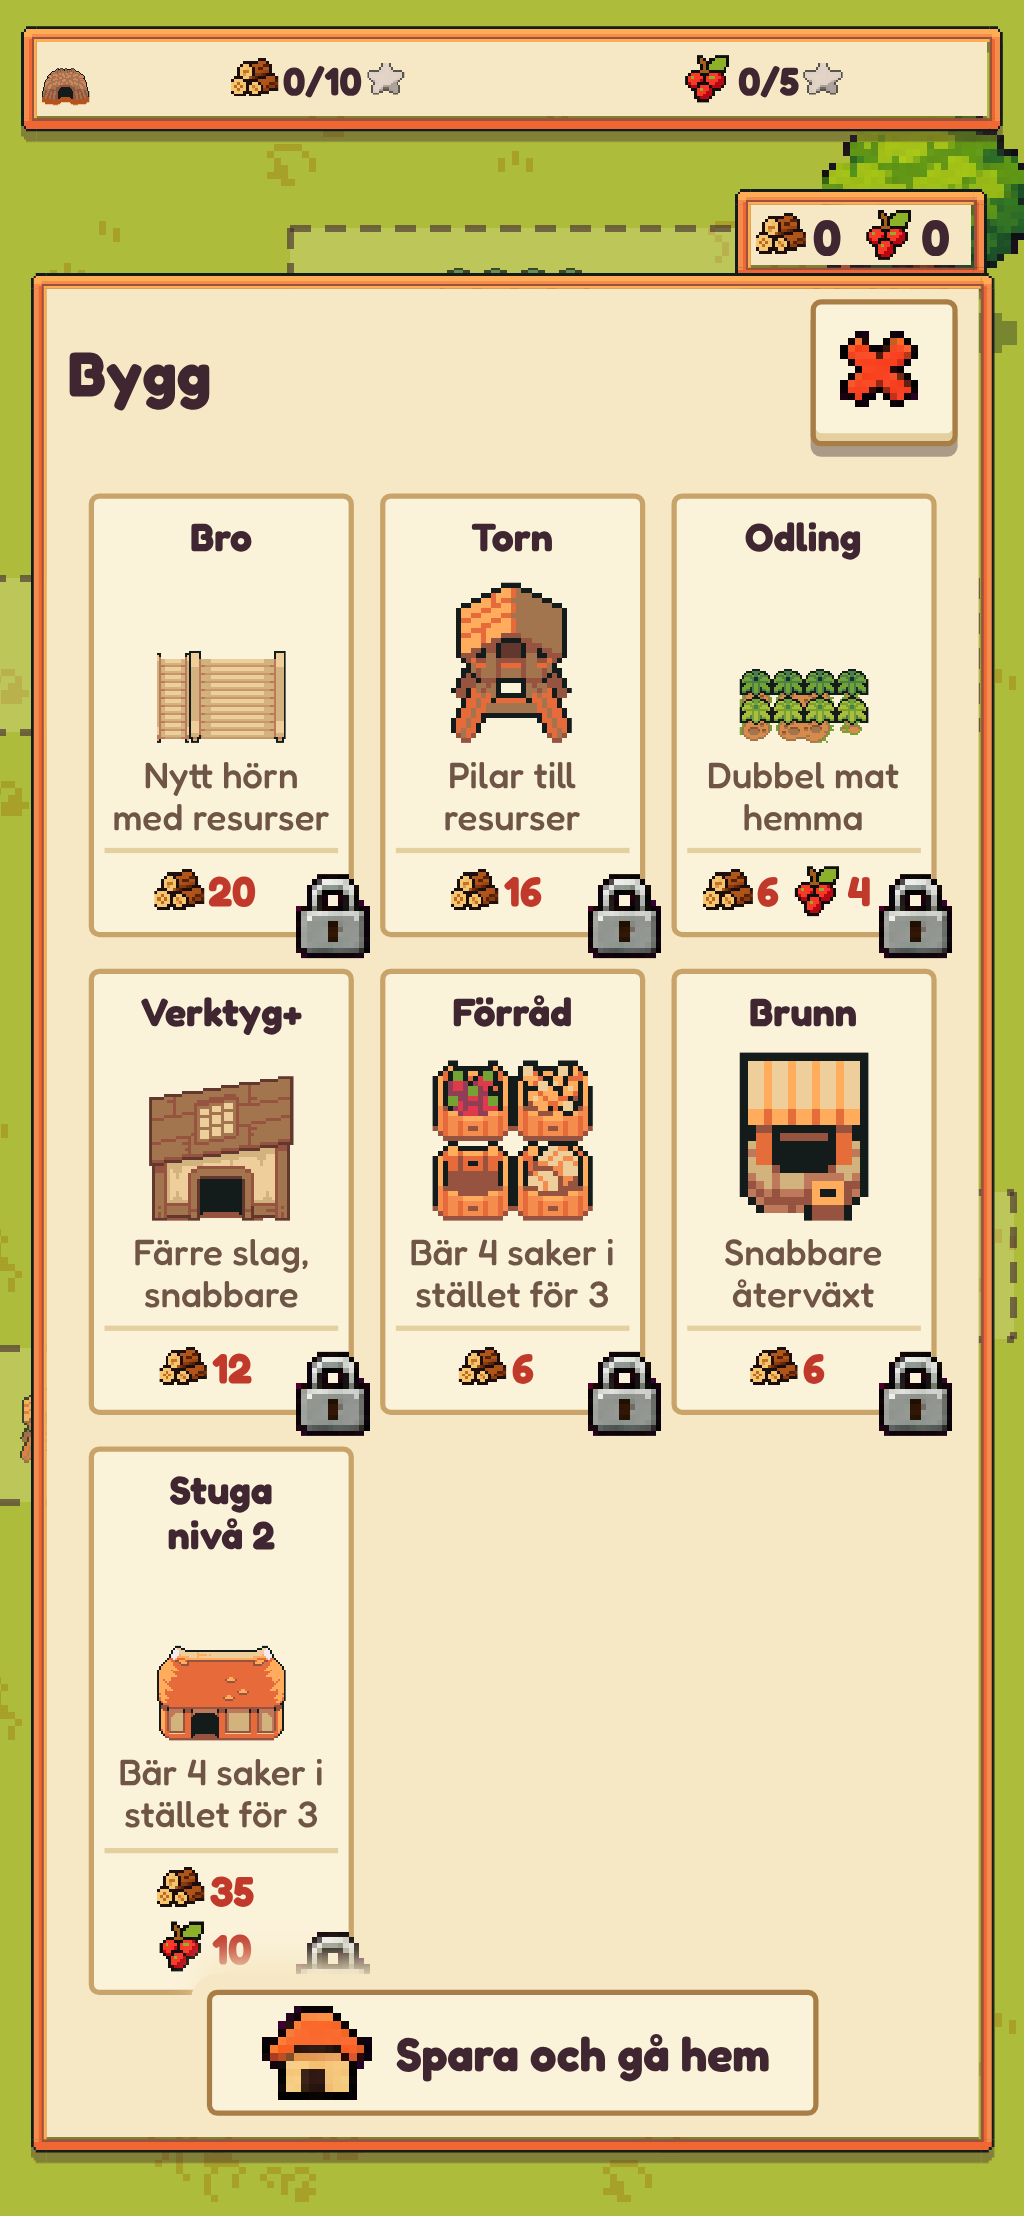
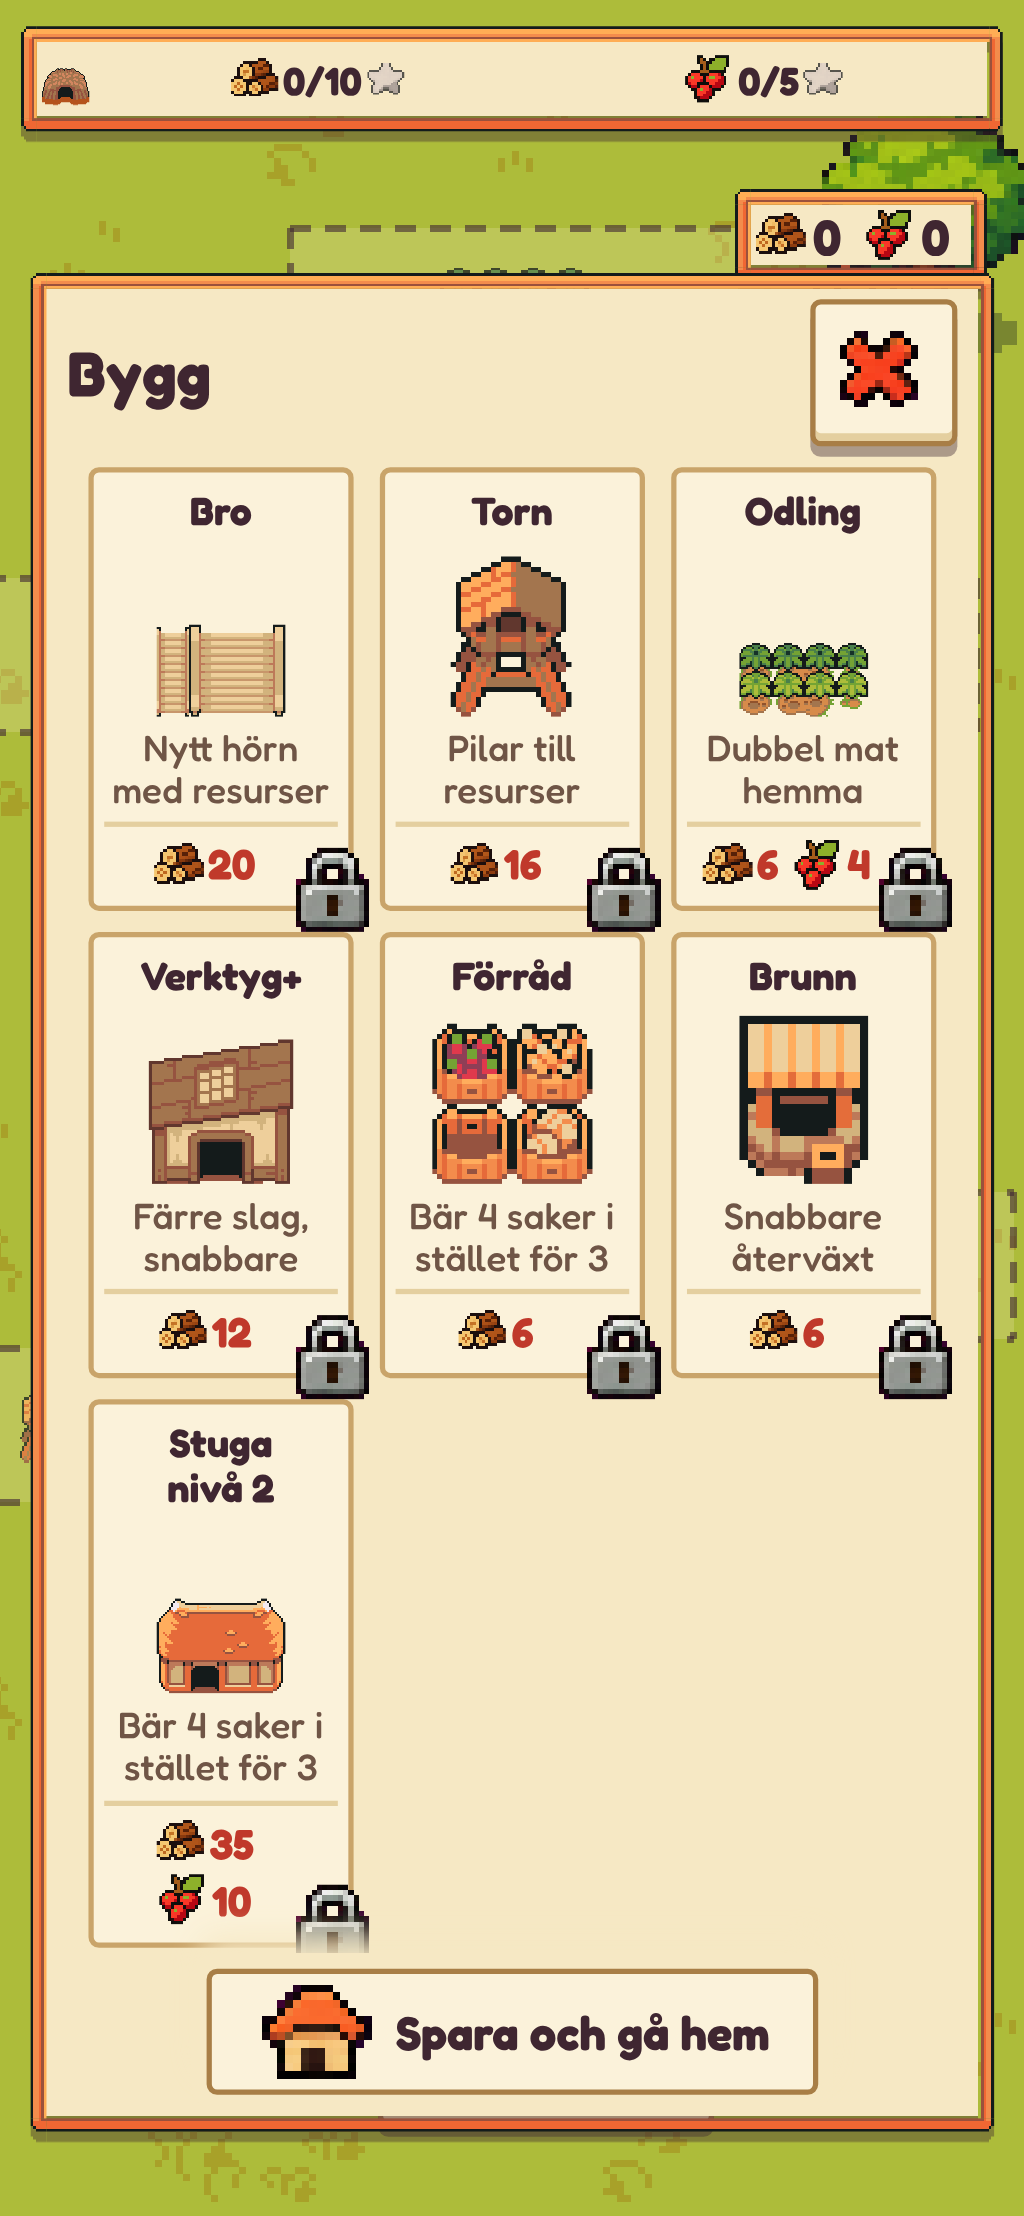
fix(build): panel fits 390x844 unscrolled; scroll hint on small phones
Trimmed ~24 px of card padding / gaps / header so the whole panel fits at
390x844 and up (696 of 716 px). Smaller screens keep scrolling with the fade
plus a bobbing arrow on the sticky footer until scrolled to the end.
e2e: no scroll at >= 844 tall, hint shown when it scrolls.

Claude-Session: https://claude.ai/code/session_019PjhQvNgzNv3LAiBBHLhoY

diff --git a/blobz/src/style.css b/blobz/src/style.css
@@ -1226,7 +1226,7 @@ input, #name {
 #build-panel .bcard .bstate, #build-panel .bcard .bimg .bstate { position: absolute; right: -10px; top: -10px; left: auto; width: 32px; height: 32px; z-index: 2; image-rendering: pixelated; }
 #build-panel .bcard .bname { min-height: 0; font-size: 15px; }
 #build-panel .bcard .beff { font-size: 14px; line-height: 1.15; }
-#build-panel .bcards { padding: 10px 8px 4px; gap: 12px 10px; }
+#build-panel .bcards { padding: 4px 8px 2px; gap: 8px 10px; } /* Lead 2026-11-16: trimmed ~24 px so 390x844 fits unscrolled */
 /* when it does scroll (small phones), a soft fade + arrow hint at the bottom */
 #build-panel.scrolls::after { content: ''; position: sticky; display: block; bottom: -8px; height: 28px; margin-top: -28px;
   background: linear-gradient(transparent, var(--k-parch)); pointer-events: none; }
@@ -1460,7 +1460,7 @@ body.rotate-block #rotate b { background: var(--k-parch2); border: 2px solid var
 @keyframes goalpop { 0% { transform: translateX(-50%) scale(0.6); opacity: 0; } 70% { transform: translateX(-50%) scale(1.08); opacity: 1; } 100% { transform: translateX(-50%) scale(1); } }
 /* the host's "Spara och gå hem" is a sticky footer of the panel (Lead 2026-11-16: it was cut off at the screen bottom
    on 390x844 and fully hidden on 360x640): always visible, the cards scroll above it */
-#build-panel #btn-gohome { display: flex; align-items: center; gap: 6px; margin: 10px auto 0; position: sticky; bottom: 0; z-index: 2;
+#build-panel #btn-gohome { display: flex; align-items: center; gap: 6px; margin: 6px auto 0; position: sticky; bottom: 0; z-index: 2;
   box-shadow: 0 0 0 6px var(--k-parch), 0 -10px 12px 2px var(--k-parch); }
 #build-panel #btn-gohome.hidden { display: none; }
 
@@ -1472,3 +1472,11 @@ body.rotate-block #rotate b { background: var(--k-parch2); border: 2px solid var
 #net-code.warn { color: #a8461f; opacity: 1; }
 #room-code { margin: 6px 0; font-size: 15px; color: var(--k-plum); }
 #room-code b { font-size: 22px; letter-spacing: 0.15em; }
+
+/* build panel: tighter header, and while more cards wait below a small plum arrow sits on the sticky footer
+   (Lead 2026-11-16: visible scroll hint on small phones); gone once scrolled to the end */
+#build-panel .bphead { margin-bottom: 4px; }
+#build-panel.scrolls:not(.atend) #btn-gohome::before { content: ''; position: absolute; left: 50%; top: -16px; margin-left: -9px;
+  border: 9px solid transparent; border-top: 10px solid var(--k-plum); border-bottom: 0; animation: hintbob 1.2s ease-in-out infinite; }
+@keyframes hintbob { 0%, 100% { transform: translateY(0); } 50% { transform: translateY(3px); } }
+#build-panel.atend::after { opacity: 0; }

diff --git a/blobz/src/main.ts b/blobz/src/main.ts
@@ -487,14 +487,22 @@ function buildCard(kind: BuildKind | 'cottage'): HTMLButtonElement {
   b.onclick = () => { if (!b.disabled) { b.classList.remove('tap'); void b.offsetWidth; b.classList.add('tap'); sendBuild(kind); } };
   return b;
 }
+function markPanelScroll() {
+  const p = $('build-panel');
+  p.classList.toggle('scrolls', p.scrollHeight > p.clientHeight + 2);
+  p.classList.toggle('atend', p.scrollTop + p.clientHeight >= p.scrollHeight - 2);
+}
 function setupBuildPanel() {
   const grid = $('build-cards');
   if (grid.childElementCount) return;
   grid.append(...[...BUILD_KINDS, 'cottage' as const].map(buildCard));
   $('btn-build').onclick = () => {
     panelOpen = true; show('build-panel');
-    requestAnimationFrame(() => { const p = $('build-panel'); p.classList.toggle('scrolls', p.scrollHeight > p.clientHeight + 2); });
+    requestAnimationFrame(markPanelScroll);
   };
+  // the scroll hint (fade + arrow) shows while more cards wait below
+  $('build-panel').addEventListener('scroll', markPanelScroll, { passive: true });
+  onViewport(markPanelScroll);
   $('btn-build-close').onclick = () => { panelOpen = false; show('build-panel', false); };
 }
 /** A building's effect in words, with the real numbers where it has them (carry 3 -> 4). */
